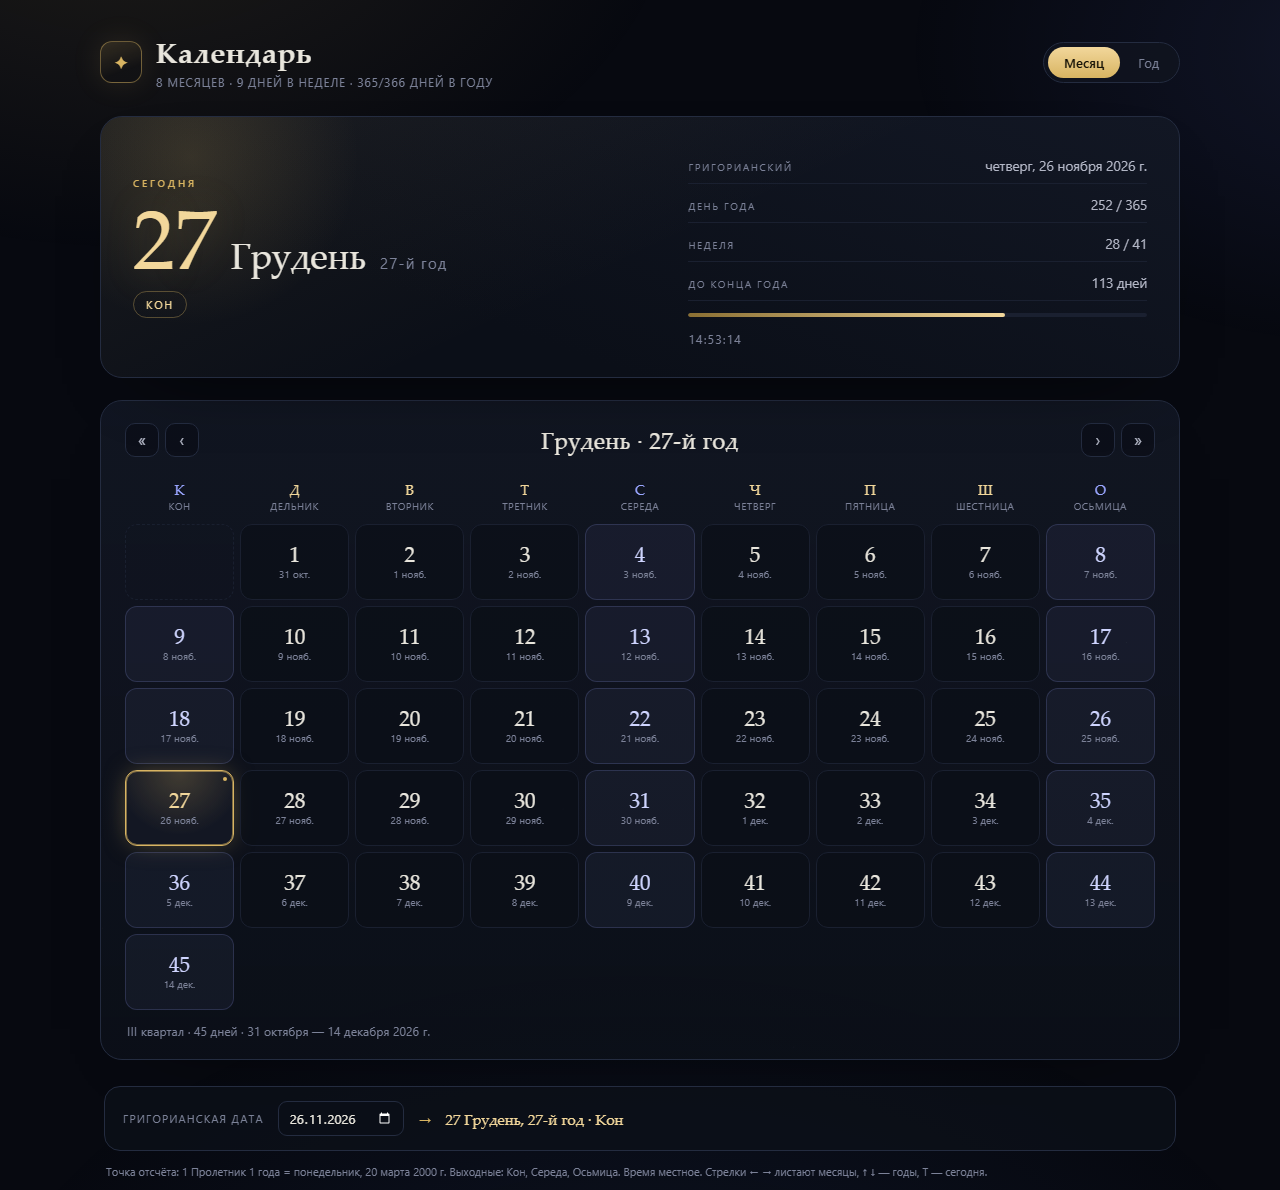
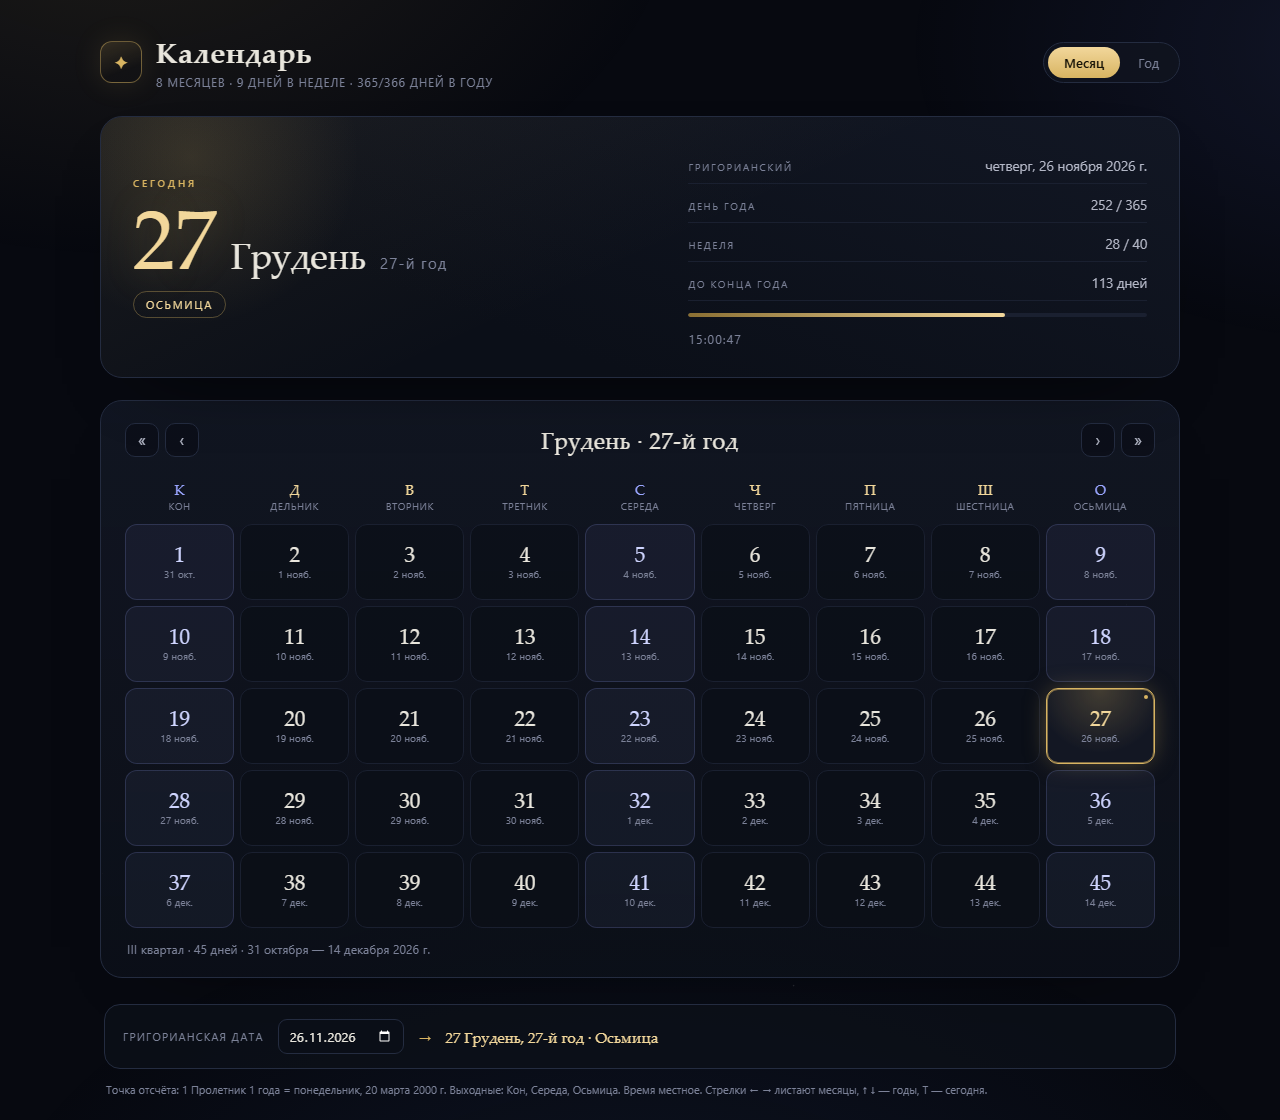
Недели начинаются заново в каждом месяце, дни баланса вне недели

diff --git a/engine.js b/engine.js
@@ -135,6 +135,16 @@ export function createCalendar(config) {
   }
   const monthsDays = monthOffsets[monthCount];
 
+  // Недели считаются внутри каждого месяца: 1-е число — всегда первый день недели.
+  // Смещение недель по месяцам нужно, чтобы номер недели в году шёл без разрывов.
+  const monthWeekOffsets = [0];
+  for (const month of months) {
+    monthWeekOffsets.push(
+      monthWeekOffsets[monthWeekOffsets.length - 1] + Math.ceil(month.days / weekLength),
+    );
+  }
+  const weeksInYear = monthWeekOffsets[monthCount];
+
   const extraDays = (config.extra?.days ?? []).map((d) => ({ ...d }));
   const extraLabel = config.extra?.label ?? "Дни вне года";
 
@@ -213,19 +223,14 @@ export function createCalendar(config) {
     }
 
     const dayOfYearIndex = dayIndex - yearStartDay(year);
-    const weekdayIndex = mod(dayIndex - epochDayIndex, weekLength);
     const gregorian = dayIndexToCivil(dayIndex);
     const length = yearLength(year);
     const leap = isLeapYear(year);
 
-    const base = {
+    const common = {
       dayIndex,
       year,
-      weekdayIndex,
-      weekdayName: weekdays[weekdayIndex],
-      isWeekend: isWeekend(weekdayIndex),
       dayOfYear: dayOfYearIndex + 1,
-      weekOfYear: Math.floor(dayOfYearIndex / weekLength) + 1,
       yearLength: length,
       daysLeftInYear: length - dayOfYearIndex - 1,
       isLeapYear: leap,
@@ -236,22 +241,34 @@ export function createCalendar(config) {
     if (dayOfYearIndex < monthsDays) {
       let monthIndex = 0;
       while (dayOfYearIndex >= monthOffsets[monthIndex + 1]) monthIndex += 1;
+      const day = dayOfYearIndex - monthOffsets[monthIndex] + 1;
+
+      // Неделя начинается заново в каждом месяце: 1-е число — Кон.
+      const weekdayIndex = mod(day - 1, weekLength);
+      const weekInMonth = Math.floor((day - 1) / weekLength) + 1;
+
       return {
-        ...base,
+        ...common,
         isExtra: false,
         monthIndex,
         monthName: months[monthIndex].name,
-        day: dayOfYearIndex - monthOffsets[monthIndex] + 1,
+        day,
         daysInMonth: months[monthIndex].days,
         extraIndex: null,
         extraName: null,
+        weekdayIndex,
+        weekdayName: weekdays[weekdayIndex],
+        isWeekend: isWeekend(weekdayIndex),
+        weekInMonth,
+        weekOfYear: monthWeekOffsets[monthIndex] + weekInMonth,
       };
     }
 
+    // Дни баланса стоят вне недели: у них нет дня недели.
     const list = extraDaysFor(year);
     const extraIndex = dayOfYearIndex - monthsDays;
     return {
-      ...base,
+      ...common,
       isExtra: true,
       monthIndex: null,
       monthName: null,
@@ -259,6 +276,11 @@ export function createCalendar(config) {
       daysInMonth: null,
       extraIndex,
       extraName: list[extraIndex].name,
+      weekdayIndex: null,
+      weekdayName: null,
+      isWeekend: false,
+      weekInMonth: null,
+      weekOfYear: null,
     };
   };
 
@@ -319,6 +341,8 @@ export function createCalendar(config) {
     epochYear,
     epochDayIndex,
     monthsDays,
+    weeksInYear,
+    monthWeekOffsets,
     isLeapYear,
     yearLength,
     yearStartDay,

diff --git a/app.js b/app.js
@@ -122,13 +122,13 @@ function renderHero() {
   el.heroMonth.classList.toggle("is-long", label.length > 10);
 
   el.heroYear.textContent = yearLabel(info.year);
-  el.heroWeekday.textContent = info.weekdayName;
+  el.heroWeekday.textContent = info.isExtra ? "вне недели" : info.weekdayName;
+  el.heroWeekday.classList.toggle("is-off", info.isExtra);
   el.heroGregorian.textContent = fmtLong.format(dateOf(info.dayIndex));
 
   el.heroDoy.textContent = `${info.dayOfYear} / ${info.yearLength}`;
 
-  const weeksInYear = Math.ceil(info.yearLength / cal.weekLength);
-  el.heroWeek.textContent = `${info.weekOfYear} / ${weeksInYear}`;
+  el.heroWeek.textContent = info.isExtra ? "—" : `${info.weekOfYear} / ${cal.weeksInYear}`;
 
   el.heroLeft.textContent = daysWord(info.daysLeftInYear);
 
@@ -157,20 +157,27 @@ function renderWeekdays() {
 }
 
 function cellTitle(info) {
-  const own = info.isExtra ? info.extraName : `${info.day} ${info.monthName}`;
-  return `${own}, ${yearLabel(info.year)} · ${info.weekdayName} · ${fmtLong.format(
+  if (info.isExtra) {
+    return `${info.extraName}, ${yearLabel(info.year)} · ${fmtLong.format(dateOf(info.dayIndex))}`;
+  }
+  return `${info.day} ${info.monthName}, ${yearLabel(info.year)} · ${info.weekdayName} · ${fmtLong.format(
     dateOf(info.dayIndex),
   )}`;
 }
 
 function renderMonth() {
   const { year, period } = state;
+  const isBalance = period === EXTRA;
   const name = cal.periodName(period);
   el.periodTitle.textContent = `${name} · ${yearLabel(year)}`;
 
+  // Дни баланса вне недели: у них нет ни заголовков дней, ни колонок.
+  el.weekdays.hidden = isBalance;
+  el.days.classList.toggle("is-balance", isBalance);
+
   const start = cal.periodStart(year, period);
   const count = cal.periodLength(year, period);
-  const blanks = cal.fromDayIndex(start).weekdayIndex;
+  const blanks = isBalance ? 0 : cal.fromDayIndex(start).weekdayIndex;
 
   const cells = [];
   for (let i = 0; i < blanks; i += 1) {
@@ -515,7 +522,8 @@ function updateConverter() {
     month: Number(match[2]),
     day: Number(match[3]),
   });
-  el.convOut.textContent = `${formatCustom(info)} · ${info.weekdayName}`;
+  const weekday = info.isExtra ? "вне недели" : info.weekdayName;
+  el.convOut.textContent = `${formatCustom(info)} · ${weekday}`;
 }
 
 el.conv.addEventListener("input", updateConverter);

diff --git a/styles.css b/styles.css
@@ -326,6 +326,25 @@ h1 {
   color: var(--gold-2);
 }
 
+.hero-weekday.is-off {
+  color: var(--muted);
+  border-color: var(--line);
+}
+
+/* Дни баланса вне недели: отдельная сетка без колонок дней недели. */
+.days.is-balance {
+  grid-template-columns: repeat(auto-fill, minmax(170px, 1fr));
+  margin-top: 22px;
+}
+
+.days.is-balance .cell {
+  min-height: 104px;
+}
+
+.days.is-balance .cell .cell-num {
+  font-size: 12px;
+}
+
 /* ── панель календаря ────────────────────────────────── */
 
 .panel {

diff --git a/README.md b/README.md
@@ -14,12 +14,14 @@
 | Год | 8 месяцев × 45 дней = 360 + 5 дней баланса (6 в високосный год) |
 | Кварталы | по 2 месяца: I — Пролетник, Травень; II — Крестень, Серпень; III — Вересень, Грудень; IV — Студень, Лютень |
 | Неделя | 9 дней: Кон, Дельник, Вторник, Третник, Середа, Четверг, Пятница, Шестница, Осьмица |
+| Месяц | ровно 5 недель; 1-е число всегда Кон, месяц заканчивается на Осьмицу |
 | Выходные | 1-й, 5-й и 9-й дни: Кон, Середа, Осьмица |
+| Дни баланса | 5 дней в конце года (6 в високосный), вне недели — без дня недели |
 | Високосы | каждый 4-й год длиннее на один день |
 | Эпоха | 1 Пролетник 1 года = 20 марта 2000 (григорианский) |
 
-На 26 ноября 2026 календарь показывает **27 Грудня 27-го года, Кон** — это
-252-й день года, III квартал.
+На 26 ноября 2026 календарь показывает **27 Грудня 27-го года, Осьмица** — это
+252-й день года, III квартал, 3-я неделя месяца.
 
 ## Что умеет
 
@@ -58,12 +60,15 @@
 2. Номер дня → свой год: начало года = `эпоха + base × Δлет + leapDays × (число високосных лет)`,
    где `base = сумма дней месяцев + дни вне месяцев`.
 3. Остаток внутри года делится на месяцы по их длинам; хвост — дни баланса.
-4. День недели непрерывен: `(номер дня − номер дня эпохи) mod длина недели`,
-   поэтому недели не обнуляются на границе года, а дни баланса продолжают счёт.
+4. Внутри месяца неделя начинается заново: день недели = `(число месяца − 1) mod 9`,
+   поэтому 1-е число каждого месяца — Кон, а 45-дневный месяц — ровно 5 недель.
+5. Дни баланса стоят вне недели: у них нет дня недели, а следующий год снова
+   начинается с Кона.
 
 Проверки — в [`tests/engine.test.mjs`](tests/engine.test.mjs): перевод туда-обратно
-на диапазоне ±40 000 дней, даты до эпохи, високосы, выходные, кварталы, а также
-миры с другой длиной недели и без дней вне месяцев.
+на диапазоне ±40 000 дней, даты до эпохи, високосы, выходные, кварталы, сброс
+недели в каждом месяце, дни баланса вне недели, а также миры с другой длиной
+недели и без дней вне месяцев.
 
 ```bash
 npm test
